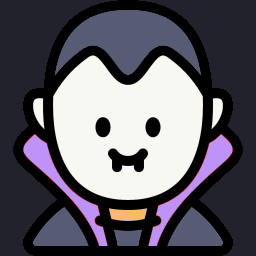
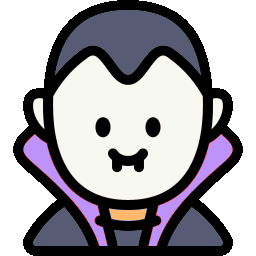
Version 1.6.0

diff --git a/README.md b/README.md
@@ -2,7 +2,7 @@
 
 Just another version of [Dracula Official Theme](https://draculatheme.com/visual-studio-code) for Visual Studio Code. Not forked.
 
-[![screenshot.png](https://raw.githubusercontent.com/FyeCobain/dracula-junior/main/screenshot.png)](https://raw.githubusercontent.com/FyeCobain/dracula-junior/main/screenshot.png)
+[![screenshot.png](screenshot.png)](screenshot.png)
 
 ### Source code
 [GitHub ](https://github.com/FyeCobain/dracula-junior.git)

diff --git a/CHANGELOG.md b/CHANGELOG.md
@@ -1,3 +1,7 @@
+### 1.6.0 (minor)
+- Icon improved.
+- README links improved.
+
 ### 1.5.0 (minor)
 - Icon improved.
 
